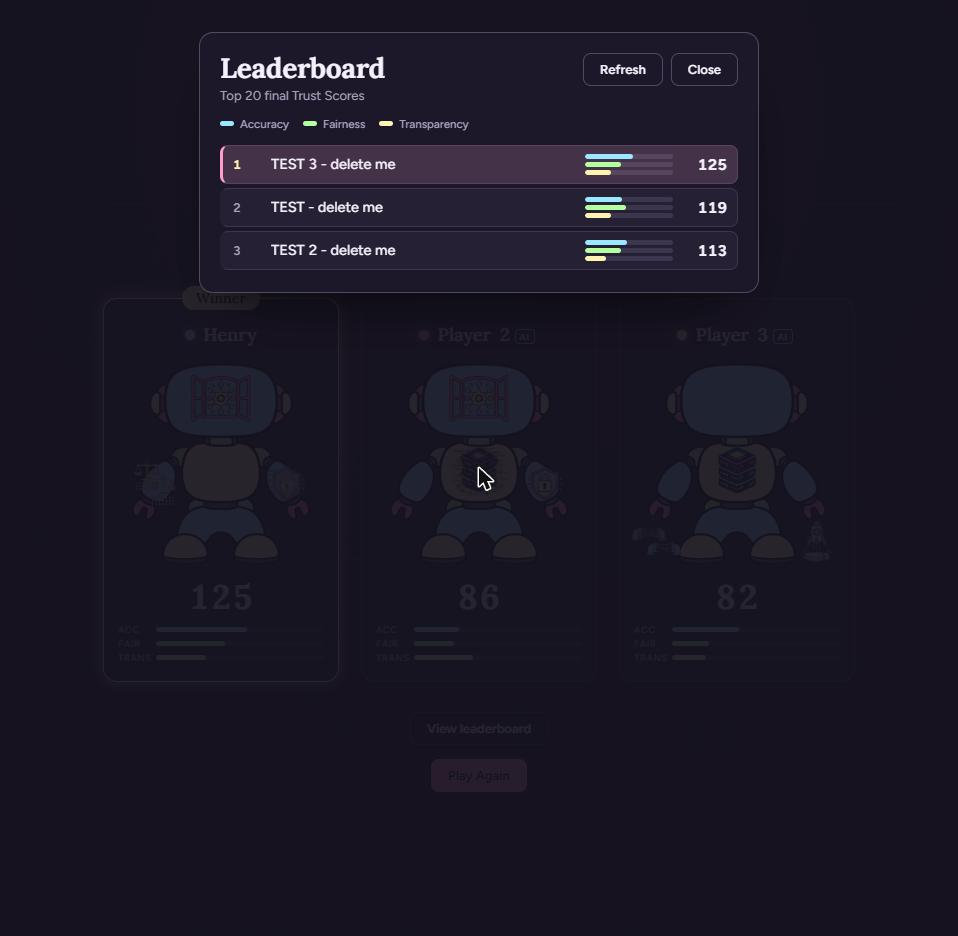
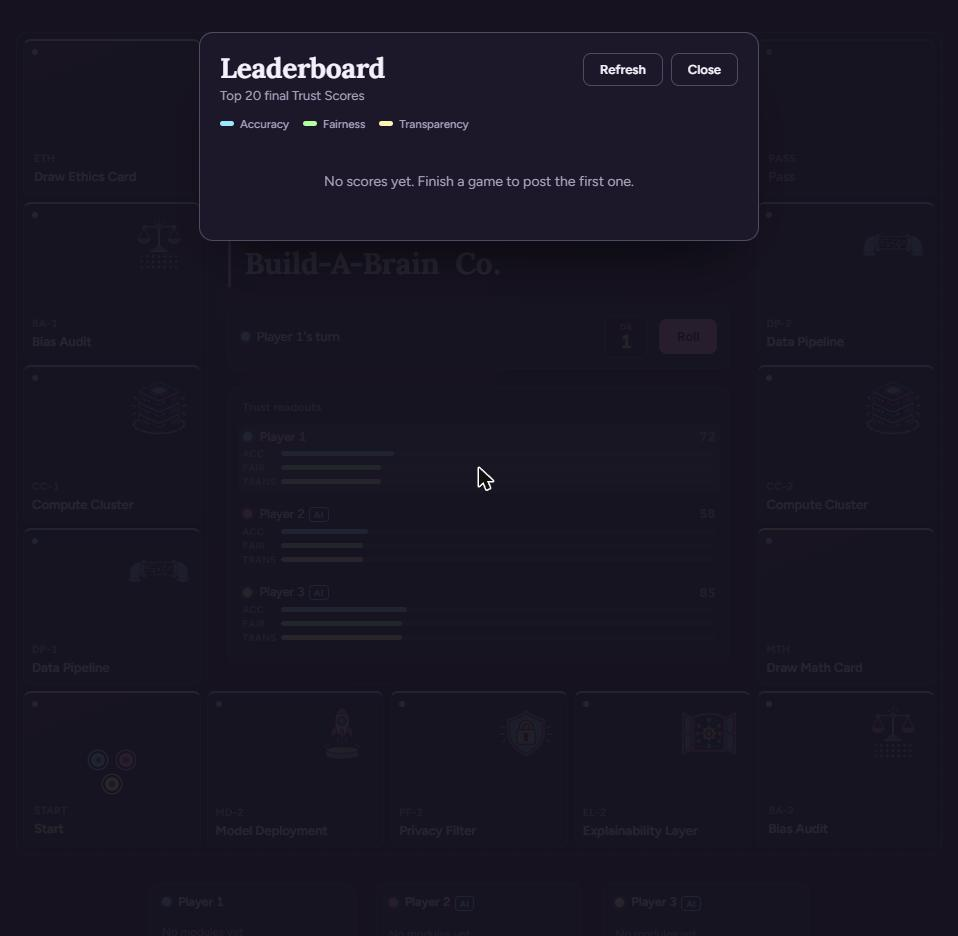
docs: refresh leaderboard screenshot after test rows were removed
Claude-Session: https://claude.ai/code/session_01J7W6gNkcV26itQpkt7QQDu

Changed region(s): [[0.2119, 0.1549, 0.7871, 0.3098]]

diff --git a/DOCUMENTATION.md b/DOCUMENTATION.md
@@ -362,9 +362,9 @@ unchanged.
   run against the live Supabase project from both `localhost` and the deployed
   site. Earlier work was also exercised against a local mock server (auth
   headers, CORS preflight, ordering/limit, DB constraints, 500s, outage and
-  recovery). Three test rows named "TEST ... - delete me" were left in the table
-  by those checks; the anon key cannot delete them, so remove them in the
-  Supabase Table Editor.
+  recovery). The three test rows those checks left in the table have since been
+  removed (the anon key can't delete rows, so this was done by hand in the
+  Supabase Table Editor).
 
 ### Save / resume, and Play Again (`lib/saveGame.js`, `GameBoard.jsx`, `App.jsx`)
 
@@ -435,8 +435,8 @@ from their owned modules, the winner highlighted, and the Play Again button.
 The game was fast-forwarded from a resumed late-game save to reach it.*
 
 ![Leaderboard](screenshots/leaderboard.png)
-*The live top-20 leaderboard on the deployed site, showing the test rows
-(fetched from the real Supabase project; the newest submit is highlighted).*
+*The live top-20 leaderboard on the deployed site, fetched from the real
+Supabase project. It is empty until the first real game is submitted.*
 
 ## Deployment
 
@@ -448,8 +448,6 @@ git-ignored. Re-deploy after any change with the same command.
 
 ## Known limitations
 
-- Three test rows ("TEST ... - delete me") are still in the leaderboard table
-  and must be removed by hand in Supabase (the anon key can't delete).
 - Scores are computed in the browser, so a determined visitor could submit a
   made-up score (see "Security model" above).
 - The board needs a window at least ~620 px wide (it scrolls horizontally

diff --git a/reports/DAILY_REPORT_2026-09-26.md b/reports/DAILY_REPORT_2026-09-26.md
@@ -27,13 +27,12 @@
 - Leaderboard screenshot retaken from the live site (the submit-form screenshot was dropped).
 
 ## Known limitations
-- **Three test leaderboard rows** ("TEST - delete me", "TEST 2 - delete me", "TEST 3 - delete me") are in the Supabase table from the real-backend checks. The anon key cannot delete rows, so remove them in the Supabase Table Editor.
+- The three test leaderboard rows from the real-backend checks were removed by hand in Supabase (the anon key cannot delete rows). Final check on the live site: the leaderboard is empty ("No scores yet").
 - Not phone-optimised (board needs ~620 px width).
 - Hosted on Vercel under the `sikhay1` Vercel team (display name "Sikhay"), at https://build-a-brain-co.vercel.app.
 - Stray 6-byte file `C:\HENRYG~1\placeholder.txt` from an earlier mistake is still there (the environment blocks deleting it); harmless and outside the repo.
 
 ## Next session
-- Delete the test leaderboard rows.
 - Optionally make the layout phone-friendly.
 
 ## Completion status
